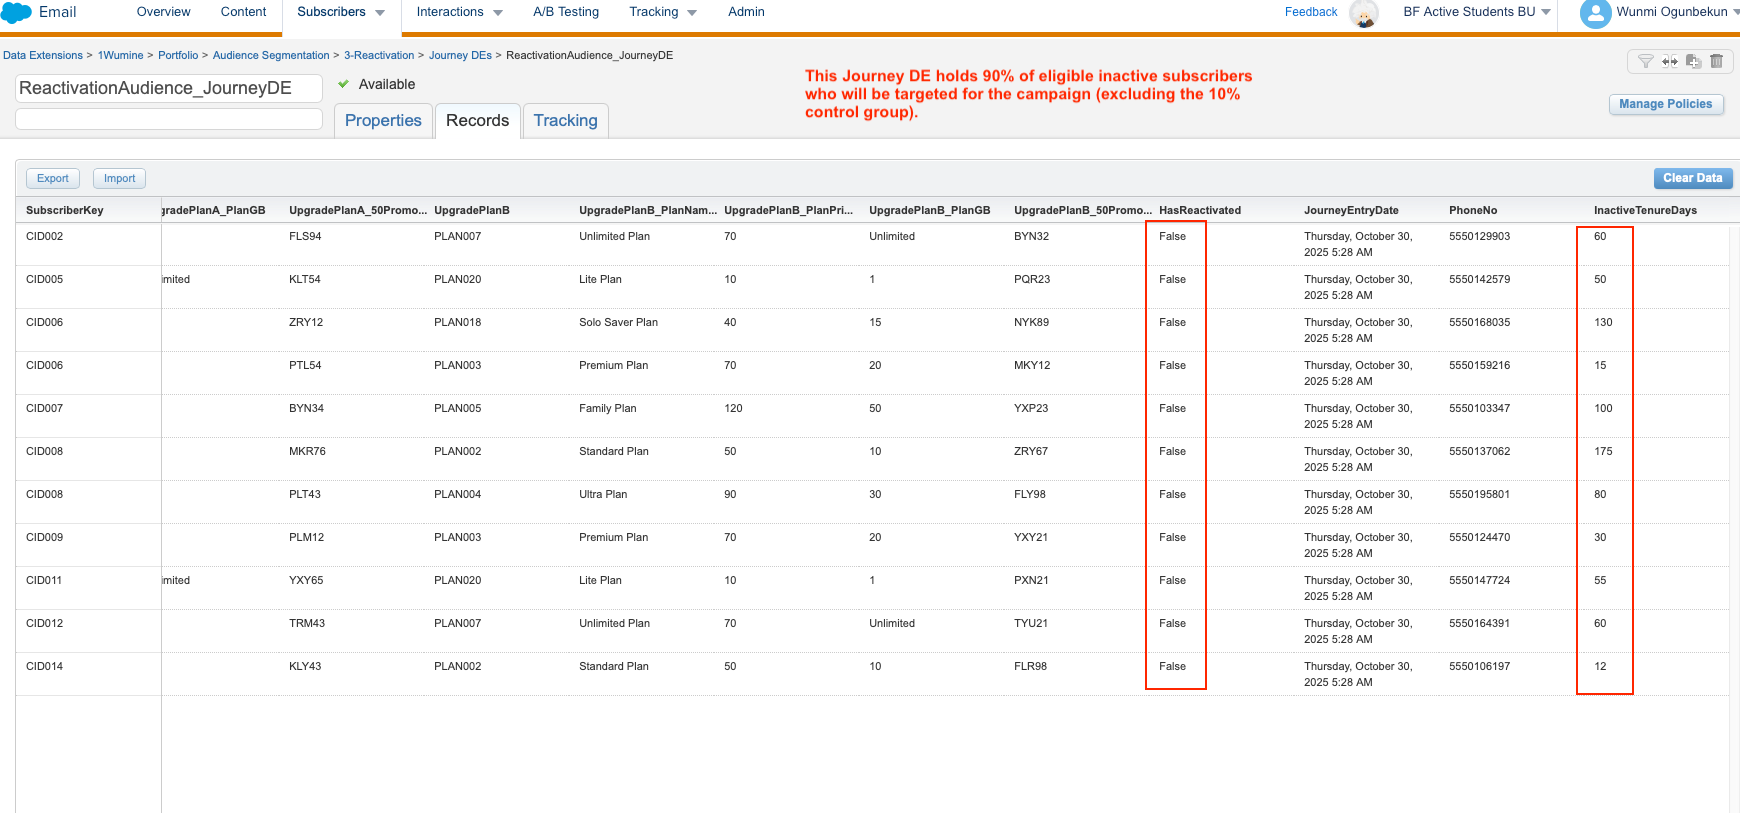
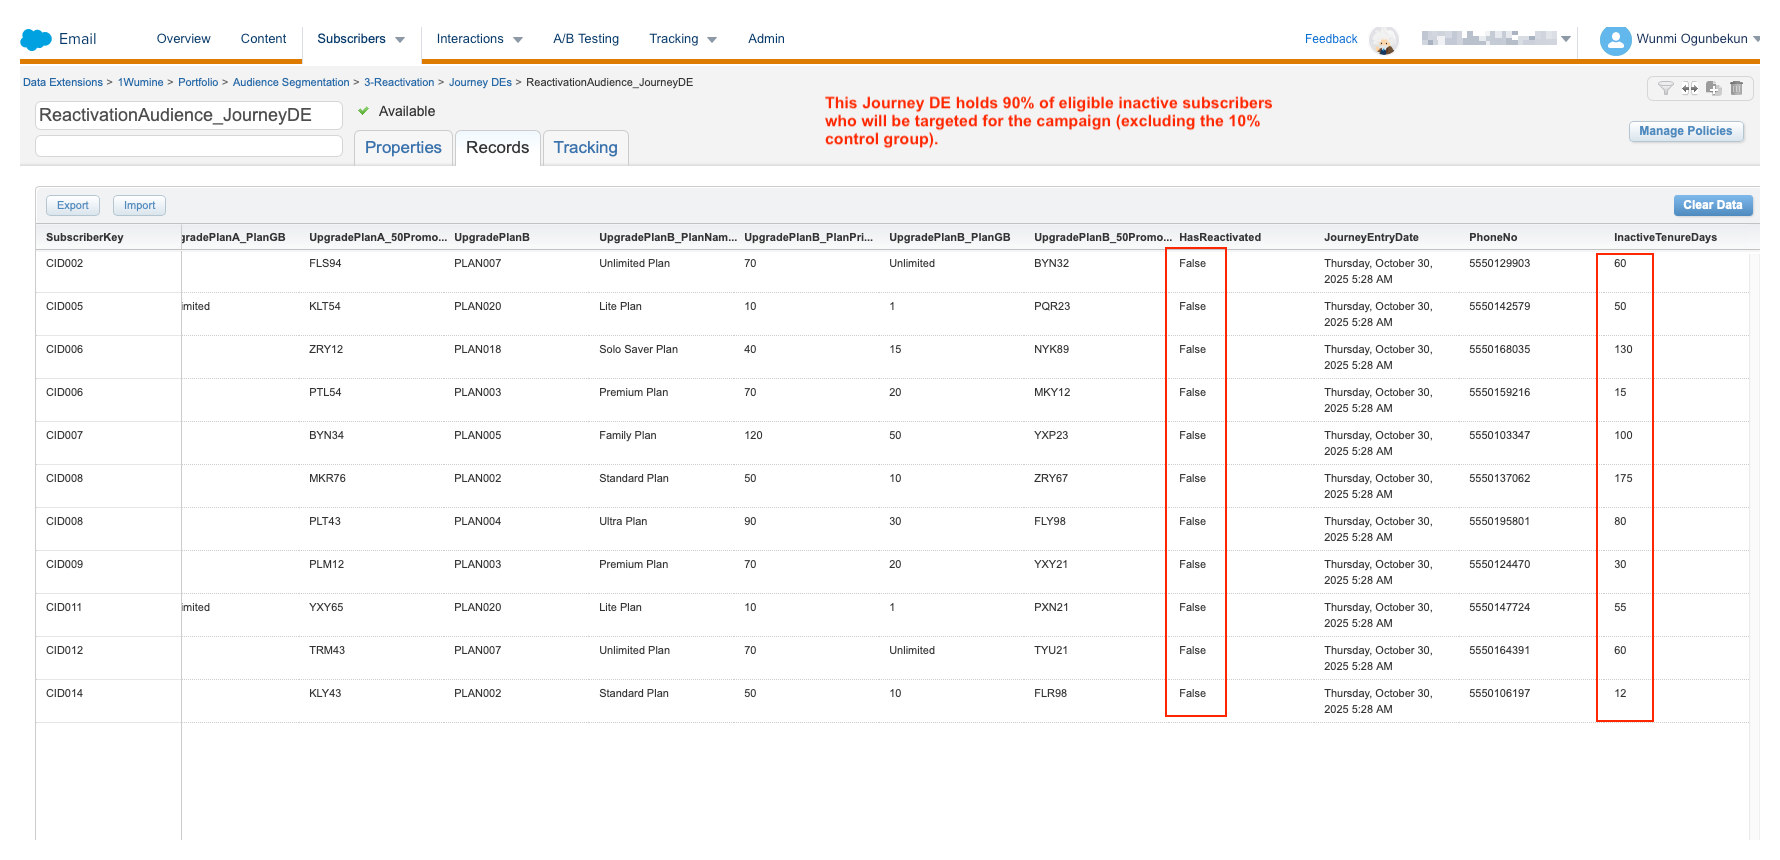
image and readme

diff --git a/Lovable.md b/Lovable.md
@@ -64,6 +64,7 @@ Audience segmentation was performed in Automation Studio using a staging approac
 
 ![Query Overview](https://github.com/WunmiBeks/Reactivation-Journey/raw/main/Image/AutomationStudio_1.png)
 
+#### 2.1. SQL Queries
 
 - **SQL Query 1:** Writes data into Reactivation_Staging Data Extension by partially filling in fields and updating old records with new ones each time the query runs. 
 
@@ -101,6 +102,15 @@ Audience segmentation was performed in Automation Studio using a staging approac
 [View the SQL Query](https://github.com/WunmiBeks/Reactivation-Journey/blob/main/5-ReactivationAudience_JourneyDE_FlagUpdate.sql)
 
 ![Query 5](https://github.com/WunmiBeks/Reactivation-Journey/raw/main/Image/AStudio_UpdateFlag.png)
+
+
+
+---
+
+#### 2.1 Final Audience Output  
+![Journey Audience](https://github.com/WunmiBeks/Reactivation-Journey/raw/main/Image/ReactivationAudience_JourneyDE.png)  
+*Resulting audience after segmentation queries — 90% of eligible inactive subscribers ready to enter the journey (excluding the 10% control group).*
+
 
 ---
 
@@ -155,7 +165,7 @@ Designed the journey flow to include three emails:
 
 Subscribers who reactivated were removed from receiving further emails.  
 
-![JourneyFlow](https://github.com/WunmiBeks/Reactivation-Journey/raw/main/Image/JourneyFlowEntry.png)  
+![Journey Flow](https://github.com/WunmiBeks/Reactivation-Journey/raw/main/Image/JourneyFlow.png)  
 
 ---
 
@@ -172,7 +182,8 @@ Exit criteria were configured by combining Journey Data with Contact Data to ens
 
 By aligning Journey Data with Contact Data, the journey remained responsive to subscriber actions in real time.  
 
-![Exit Criteria](https://github.com/WunmiBeks/Reactivation-Journey/raw/main/Image/JourneyFlowEntry.png) 
+![Exit Criteria](https://github.com/WunmiBeks/Reactivation-Journey/raw/main/Image/Journey_ExitCriteria.png) 
+*Journey flow showing the three-email reactivation sequence.*
 
 ---
 
@@ -211,3 +222,6 @@ The campaign achieved its technical objectives while strengthening best practice
 **Learnings:**  
 - Staging Data Extensions improved efficiency and reliability of automation runs.  
 - Leveraging contact data updates made the journey adaptive to real-time subscriber actions.  
+
+
+
